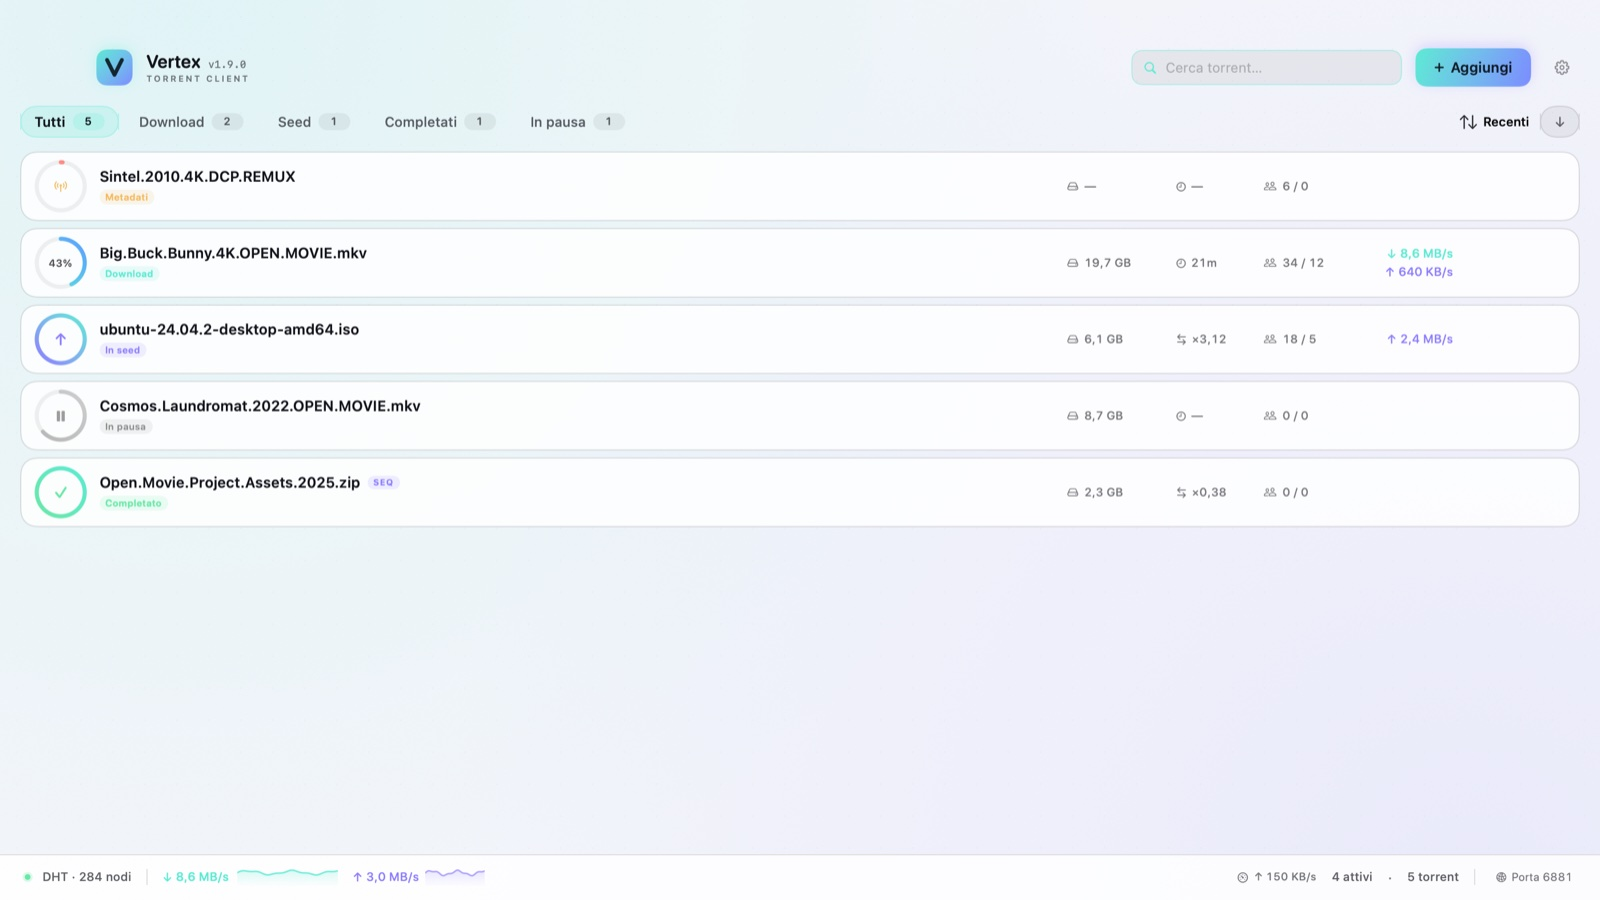
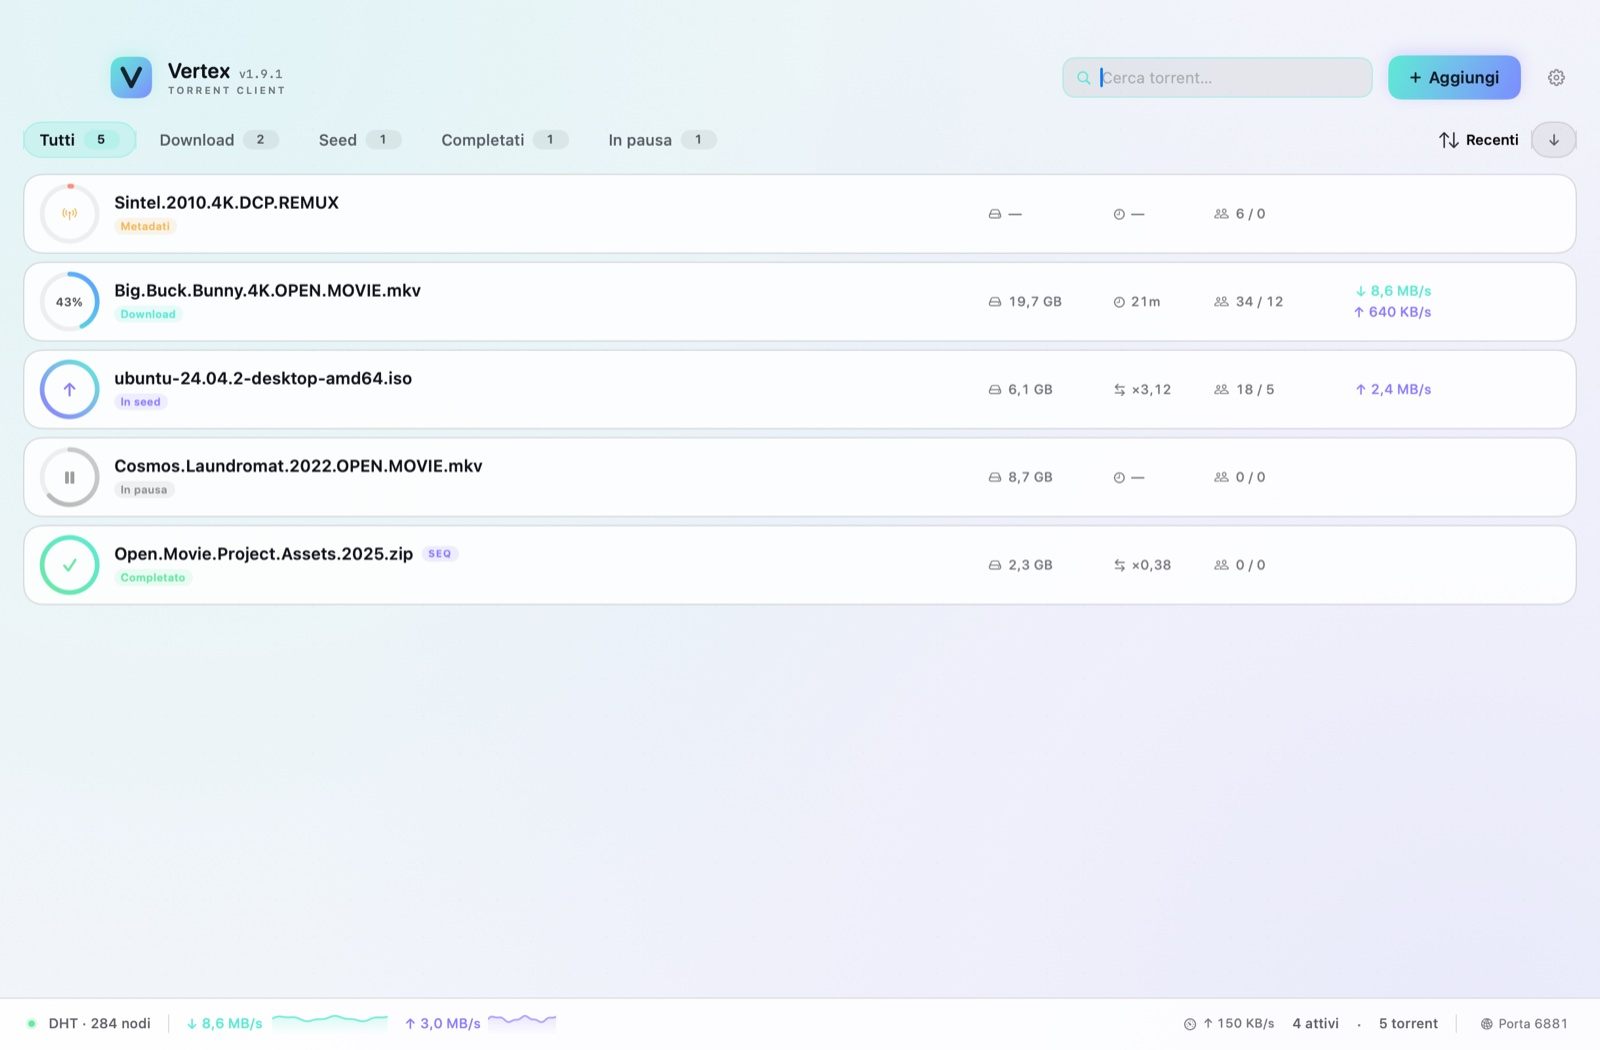
Release 1.9.1: fix the list focus ring and launch appearance
- Version 1.9.1 (build 36)
- Disable the system focus ring on the torrent list while keeping arrow-key navigation
- Apply the saved appearance before the window is created and synchronize window chrome
- Refresh docs/screenshot.jpg (1.9.1)

diff --git a/CHANGELOG.md b/CHANGELOG.md
@@ -1,6 +1,6 @@
 # Changelog
 
-## [Unreleased]
+## [1.9.1] — 2026-11-09
 
 ### Corretto
 - **Focus ring della lista**: rimosso l'alone blu di sistema introdotto con la navigazione
